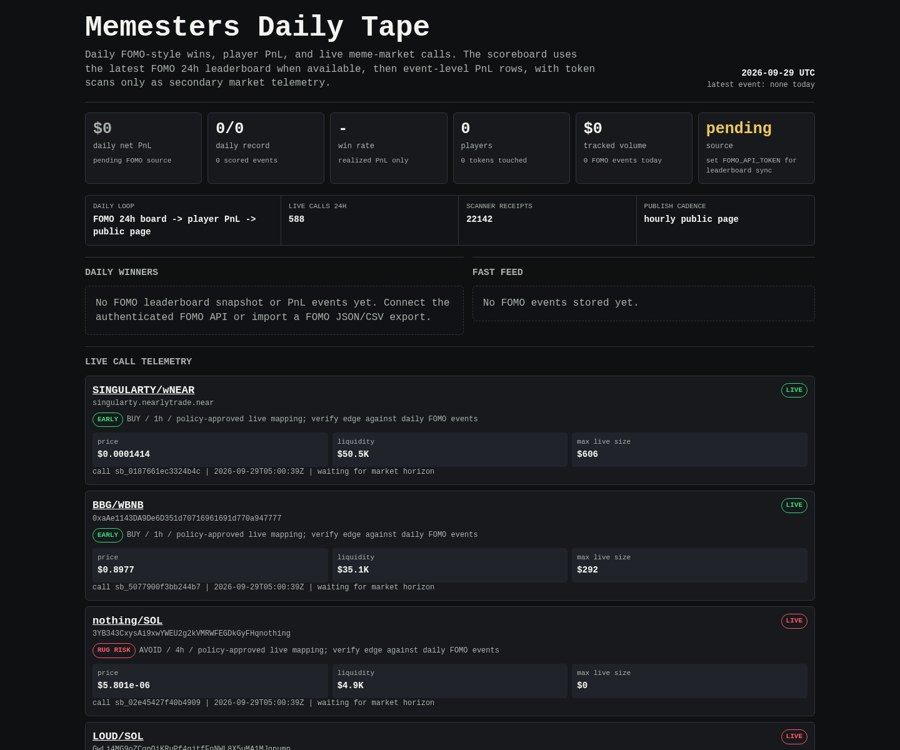
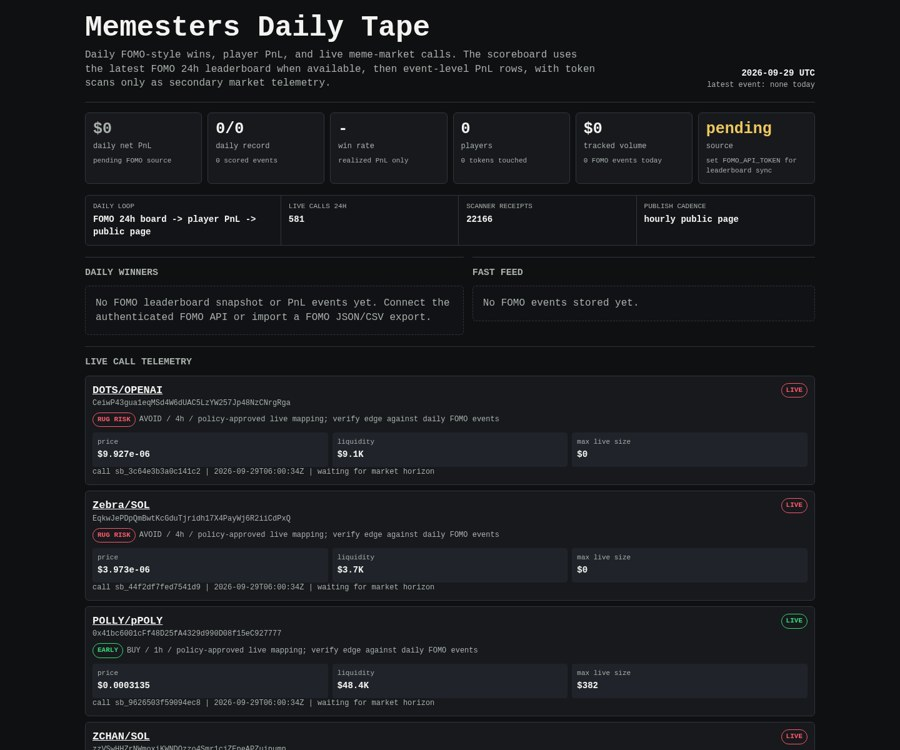
Update Memesters scoreboard

diff --git a/memesters/index.html b/memesters/index.html
@@ -149,8 +149,8 @@
 
     <div class="rail" aria-label="live operating loop">
       <div><span>daily loop</span><b>FOMO 24h board -> player PnL -> public page</b></div>
-      <div><span>live calls 24h</span><b>588</b></div>
-      <div><span>scanner receipts</span><b>22142</b></div>
+      <div><span>live calls 24h</span><b>581</b></div>
+      <div><span>scanner receipts</span><b>22166</b></div>
       <div><span>publish cadence</span><b>hourly public page</b></div>
     </div>
 
@@ -171,8 +171,50 @@
     <article class="receipt">
       <div class="receipt-head">
         <div>
-          <div class="pair"><a href="https://dexscreener.com/near/refv2-singularty.nearlytrade.near:wrap.near:10000">SINGULARTY/wNEAR</a></div>
-          <div class="addr">singularty.nearlytrade.near</div>
+          <div class="pair"><a href="https://dexscreener.com/solana/7d1fstcr2asy3vaknbwfijgo2kxpzjtvebx8i6g1thwq">DOTS/OPENAI</a></div>
+          <div class="addr">CeiwP43gua1eqMSd4W6dUAC5LzYW257Jp48NzCNrgRga</div>
+          <div class="addr policy-line">
+            <span class="badge rug-risk">RUG RISK</span>
+            <span>AVOID / 4h / policy-approved live mapping; verify edge against daily FOMO events</span>
+          </div>
+        </div>
+        <span class="badge rug-risk">LIVE</span>
+      </div>
+      <div class="receipt-grid">
+        <div class="kv"><span>price</span><b>$9.927e-06</b></div>
+        <div class="kv"><span>liquidity</span><b>$9.1K</b></div>
+        <div class="kv"><span>max live size</span><b>$0</b></div>
+      </div>
+      <div class="outcomes">call sb_3c64e3b3a0c141c2 | 2026-09-29T06:00:34Z | waiting for market horizon</div>
+    </article>
+    
+
+    <article class="receipt">
+      <div class="receipt-head">
+        <div>
+          <div class="pair"><a href="https://dexscreener.com/solana/a7xefqr7nohxuln4jdh8ynhklerjtqy7jwvtbbewf8ce">Zebra/SOL</a></div>
+          <div class="addr">EqkwJePDpQmBwtKcGduTjridh17X4PayWj6R2iiCdPxQ</div>
+          <div class="addr policy-line">
+            <span class="badge rug-risk">RUG RISK</span>
+            <span>AVOID / 4h / policy-approved live mapping; verify edge against daily FOMO events</span>
+          </div>
+        </div>
+        <span class="badge rug-risk">LIVE</span>
+      </div>
+      <div class="receipt-grid">
+        <div class="kv"><span>price</span><b>$3.973e-06</b></div>
+        <div class="kv"><span>liquidity</span><b>$3.7K</b></div>
+        <div class="kv"><span>max live size</span><b>$0</b></div>
+      </div>
+      <div class="outcomes">call sb_44f2df7fed7541d9 | 2026-09-29T06:00:34Z | waiting for market horizon</div>
+    </article>
+    
+
+    <article class="receipt">
+      <div class="receipt-head">
+        <div>
+          <div class="pair"><a href="https://dexscreener.com/bsc/0xa9eef9ea94c148136d5b5cd339e7fad9ebbec9bb">POLLY/pPOLY</a></div>
+          <div class="addr">0x41bc6001cFf48D25fA4329d990D08f15eC927777</div>
           <div class="addr policy-line">
             <span class="badge early">EARLY</span>
             <span>BUY / 1h / policy-approved live mapping; verify edge against daily FOMO events</span>
@@ -181,19 +223,82 @@
         <span class="badge early">LIVE</span>
       </div>
       <div class="receipt-grid">
-        <div class="kv"><span>price</span><b>$0.0001414</b></div>
-        <div class="kv"><span>liquidity</span><b>$50.5K</b></div>
-        <div class="kv"><span>max live size</span><b>$606</b></div>
+        <div class="kv"><span>price</span><b>$0.0003135</b></div>
+        <div class="kv"><span>liquidity</span><b>$48.4K</b></div>
+        <div class="kv"><span>max live size</span><b>$382</b></div>
       </div>
-      <div class="outcomes">call sb_0187661ec3324b4c | 2026-09-29T05:00:39Z | waiting for market horizon</div>
+      <div class="outcomes">call sb_9626503f59094ec8 | 2026-09-29T06:00:34Z | waiting for market horizon</div>
     </article>
     
 
     <article class="receipt">
       <div class="receipt-head">
         <div>
-          <div class="pair"><a href="https://dexscreener.com/bsc/0x96a70156b1752e9d0ef8a7db096c1f39151cd88f">BBG/WBNB</a></div>
-          <div class="addr">0xaAe1143DA9De6D351d70716961691d770a947777</div>
+          <div class="pair"><a href="https://dexscreener.com/solana/4ajf1ml3s6veubendokeh6ugsztttla6rbnajz74pgsx">ZCHAN/SOL</a></div>
+          <div class="addr">zzVSwHHZrNWmoxiKWNDQzzo4Smr1cjZEpeAPZuipump</div>
+          <div class="addr policy-line">
+            <span class="badge rug-risk">RUG RISK</span>
+            <span>AVOID / 4h / policy-approved live mapping; verify edge against daily FOMO events</span>
+          </div>
+        </div>
+        <span class="badge rug-risk">LIVE</span>
+      </div>
+      <div class="receipt-grid">
+        <div class="kv"><span>price</span><b>$5.981e-06</b></div>
+        <div class="kv"><span>liquidity</span><b>$5.0K</b></div>
+        <div class="kv"><span>max live size</span><b>$0</b></div>
+      </div>
+      <div class="outcomes">call sb_79945f4b38a54288 | 2026-09-29T06:00:34Z | waiting for market horizon</div>
+    </article>
+    
+
+    <article class="receipt">
+      <div class="receipt-head">
+        <div>
+          <div class="pair"><a href="https://dexscreener.com/bsc/0x5ac8311513293db298ae6a2876814b7855886b54">企鹅/wTCENTx</a></div>
+          <div class="addr">0x36a376338Af174E680AA35A5f1024f0FD9cB7777</div>
+          <div class="addr policy-line">
+            <span class="badge chase">CHASE</span>
+            <span>AVOID / 4h / policy-approved live mapping; verify edge against daily FOMO events</span>
+          </div>
+        </div>
+        <span class="badge chase">LIVE</span>
+      </div>
+      <div class="receipt-grid">
+        <div class="kv"><span>price</span><b>$0.0003788</b></div>
+        <div class="kv"><span>liquidity</span><b>$57.0K</b></div>
+        <div class="kv"><span>max live size</span><b>$0</b></div>
+      </div>
+      <div class="outcomes">call sb_2186fea9c4d24627 | 2026-09-29T06:00:34Z | waiting for market horizon</div>
+    </article>
+    
+
+    <article class="receipt">
+      <div class="receipt-head">
+        <div>
+          <div class="pair"><a href="https://dexscreener.com/solana/4uzfvghqgzdxvfee1eu4cvv6boonsksjpgt4jiscgprt">DOTS/tOpenAI</a></div>
+          <div class="addr">7MYpDaZ1Uorg1QtkjWK25X2K4UoNk88854jfopAXxNKs</div>
+          <div class="addr policy-line">
+            <span class="badge chase">CHASE</span>
+            <span>AVOID / 4h / policy-approved live mapping; verify edge against daily FOMO events</span>
+          </div>
+        </div>
+        <span class="badge chase">LIVE</span>
+      </div>
+      <div class="receipt-grid">
+        <div class="kv"><span>price</span><b>$0.0002531</b></div>
+        <div class="kv"><span>liquidity</span><b>$51.9K</b></div>
+        <div class="kv"><span>max live size</span><b>$0</b></div>
+      </div>
+      <div class="outcomes">call sb_d71aa25a32e34db0 | 2026-09-29T06:00:34Z | waiting for market horizon</div>
+    </article>
+    
+
+    <article class="receipt">
+      <div class="receipt-head">
+        <div>
+          <div class="pair"><a href="https://dexscreener.com/solana/5wvntankvt59l4eigbpv8tpszd6ikdy2f3uguquwvmbj">SIMPS/SOL</a></div>
+          <div class="addr">CZhiyUF927C4NbSRDwytc44yRtTgr2tPRDrDPf9bsimp</div>
           <div class="addr policy-line">
             <span class="badge early">EARLY</span>
             <span>BUY / 1h / policy-approved live mapping; verify edge against daily FOMO events</span>
@@ -202,19 +307,19 @@
         <span class="badge early">LIVE</span>
       </div>
       <div class="receipt-grid">
-        <div class="kv"><span>price</span><b>$0.8977</b></div>
-        <div class="kv"><span>liquidity</span><b>$35.1K</b></div>
-        <div class="kv"><span>max live size</span><b>$292</b></div>
+        <div class="kv"><span>price</span><b>$3.821e-05</b></div>
+        <div class="kv"><span>liquidity</span><b>$15.8K</b></div>
+        <div class="kv"><span>max live size</span><b>$190</b></div>
       </div>
-      <div class="outcomes">call sb_5077900f3bb244b7 | 2026-09-29T05:00:39Z | waiting for market horizon</div>
+      <div class="outcomes">call sb_65876f491d09420d | 2026-09-29T06:00:34Z | waiting for market horizon</div>
     </article>
     
 
     <article class="receipt">
       <div class="receipt-head">
         <div>
-          <div class="pair"><a href="https://dexscreener.com/solana/hpjyc2s3sn85psqhdxiwwalk2uclgyhis49kxvjksuns">nothing/SOL</a></div>
-          <div class="addr">3YB343CxysAi9xwYWEU2g2kVMRWFEGDkGyFHqnothing</div>
+          <div class="pair"><a href="https://dexscreener.com/solana/a7xefqr7nohxuln4jdh8ynhklerjtqy7jwvtbbewf8ce">Zebra/SOL</a></div>
+          <div class="addr">EqkwJePDpQmBwtKcGduTjridh17X4PayWj6R2iiCdPxQ</div>
           <div class="addr policy-line">
             <span class="badge rug-risk">RUG RISK</span>
             <span>AVOID / 4h / policy-approved live mapping; verify edge against daily FOMO events</span>
@@ -223,82 +328,19 @@
         <span class="badge rug-risk">LIVE</span>
       </div>
       <div class="receipt-grid">
-        <div class="kv"><span>price</span><b>$5.801e-06</b></div>
-        <div class="kv"><span>liquidity</span><b>$4.9K</b></div>
+        <div class="kv"><span>price</span><b>$8.058e-06</b></div>
+        <div class="kv"><span>liquidity</span><b>$6.1K</b></div>
         <div class="kv"><span>max live size</span><b>$0</b></div>
       </div>
-      <div class="outcomes">call sb_02e45427f40b4909 | 2026-09-29T05:00:39Z | waiting for market horizon</div>
+      <div class="outcomes">call sb_523d76d0bd494df3 | 2026-09-29T05:45:33Z | waiting for market horizon</div>
     </article>
     
 
     <article class="receipt">
       <div class="receipt-head">
         <div>
-          <div class="pair"><a href="https://dexscreener.com/solana/a7wxsvpthy4dz49gqkn9dyucasprcgg4rvpmuwzn9zvr">LOUD/SOL</a></div>
-          <div class="addr">GwLj4MG9oZCqpQiKRuPf4gjtfFnNWL8X5uMA1MJgpump</div>
-          <div class="addr policy-line">
-            <span class="badge rug-risk">RUG RISK</span>
-            <span>AVOID / 4h / policy-approved live mapping; verify edge against daily FOMO events</span>
-          </div>
-        </div>
-        <span class="badge rug-risk">LIVE</span>
-      </div>
-      <div class="receipt-grid">
-        <div class="kv"><span>price</span><b>$2.837e-06</b></div>
-        <div class="kv"><span>liquidity</span><b>$2.8K</b></div>
-        <div class="kv"><span>max live size</span><b>$0</b></div>
-      </div>
-      <div class="outcomes">call sb_dee89bced3104e99 | 2026-09-29T05:00:39Z | waiting for market horizon</div>
-    </article>
-    
-
-    <article class="receipt">
-      <div class="receipt-head">
-        <div>
-          <div class="pair"><a href="https://dexscreener.com/solana/o2cmyrzuyqrvbjzza2svfshcyu6oaewq9prpkud4wfq">PARACAT/SOL</a></div>
-          <div class="addr">4D4g9bMwY2EYb7CU79u2Xsg6hciPoPcGYiWPVicopump</div>
-          <div class="addr policy-line">
-            <span class="badge rug-risk">RUG RISK</span>
-            <span>AVOID / 4h / policy-approved live mapping; verify edge against daily FOMO events</span>
-          </div>
-        </div>
-        <span class="badge rug-risk">LIVE</span>
-      </div>
-      <div class="receipt-grid">
-        <div class="kv"><span>price</span><b>$0.0001511</b></div>
-        <div class="kv"><span>liquidity</span><b>$34.2K</b></div>
-        <div class="kv"><span>max live size</span><b>$0</b></div>
-      </div>
-      <div class="outcomes">call sb_caef282b7c8c4c4a | 2026-09-29T05:00:39Z | waiting for market horizon</div>
-    </article>
-    
-
-    <article class="receipt">
-      <div class="receipt-head">
-        <div>
-          <div class="pair"><a href="https://dexscreener.com/solana/5ocdcbhmsiczq6feo9214ihrqnchsebrt9yteggmlymq">BTCBIRD/WBTC</a></div>
-          <div class="addr">7zJDJdbiPk7EzpPK8GX6QqHF3zWXFdauNJFiBMYnSTNK</div>
-          <div class="addr policy-line">
-            <span class="badge rug-risk">RUG RISK</span>
-            <span>AVOID / 4h / policy-approved live mapping; verify edge against daily FOMO events</span>
-          </div>
-        </div>
-        <span class="badge rug-risk">LIVE</span>
-      </div>
-      <div class="receipt-grid">
-        <div class="kv"><span>price</span><b>$1.13e-05</b></div>
-        <div class="kv"><span>liquidity</span><b>$9.9K</b></div>
-        <div class="kv"><span>max live size</span><b>$0</b></div>
-      </div>
-      <div class="outcomes">call sb_deee318aed8c4e40 | 2026-09-29T05:00:39Z | waiting for market horizon</div>
-    </article>
-    
-
-    <article class="receipt">
-      <div class="receipt-head">
-        <div>
-          <div class="pair"><a href="https://dexscreener.com/ethereum/0x5b9d2e5967709e219e4107acb5c9283177fd154897d1e30b986614cfecd78a7e">CWC/ETH</a></div>
-          <div class="addr">0x678658399199a736B1B74ce7Aa799247A9391F9a</div>
+          <div class="pair"><a href="https://dexscreener.com/bsc/0xa9eef9ea94c148136d5b5cd339e7fad9ebbec9bb">POLLY/pPOLY</a></div>
+          <div class="addr">0x41bc6001cFf48D25fA4329d990D08f15eC927777</div>
           <div class="addr policy-line">
             <span class="badge chase">CHASE</span>
             <span>AVOID / 4h / policy-approved live mapping; verify edge against daily FOMO events</span>
@@ -307,40 +349,19 @@
         <span class="badge chase">LIVE</span>
       </div>
       <div class="receipt-grid">
-        <div class="kv"><span>price</span><b>$8.079e-05</b></div>
-        <div class="kv"><span>liquidity</span><b>$42.8K</b></div>
+        <div class="kv"><span>price</span><b>$0.0003013</b></div>
+        <div class="kv"><span>liquidity</span><b>$47.5K</b></div>
         <div class="kv"><span>max live size</span><b>$0</b></div>
       </div>
-      <div class="outcomes">call sb_c903e8b86072415c | 2026-09-29T04:45:33Z | waiting for market horizon</div>
+      <div class="outcomes">call sb_d00a2b39e4774de5 | 2026-09-29T05:45:33Z | waiting for market horizon</div>
     </article>
     
 
     <article class="receipt">
       <div class="receipt-head">
         <div>
-          <div class="pair"><a href="https://dexscreener.com/solana/7mzmfuz1dtbxsysaaxepkkthllzv9sfyddiktg83fe62">Virus/SOL</a></div>
-          <div class="addr">2uPFpHPaQUyrrsRfYeziTjzNoju449gruMQFRie2pump</div>
-          <div class="addr policy-line">
-            <span class="badge chase">CHASE</span>
-            <span>AVOID / 4h / policy-approved live mapping; verify edge against daily FOMO events</span>
-          </div>
-        </div>
-        <span class="badge chase">LIVE</span>
-      </div>
-      <div class="receipt-grid">
-        <div class="kv"><span>price</span><b>$9.376e-05</b></div>
-        <div class="kv"><span>liquidity</span><b>$26.2K</b></div>
-        <div class="kv"><span>max live size</span><b>$0</b></div>
-      </div>
-      <div class="outcomes">call sb_069b16d991214b3e | 2026-09-29T04:45:32Z | waiting for market horizon</div>
-    </article>
-    
-
-    <article class="receipt">
-      <div class="receipt-head">
-        <div>
-          <div class="pair"><a href="https://dexscreener.com/solana/a1vrdeyvdrjo6sawx6yfaf1m96pvhkagpmmgeutgnqpr">ZSOL/SOL</a></div>
-          <div class="addr">CvjqxqXRVzbMNjzc3HEG9pwYM6SYqmP8Ht3Lvgi1Cdwv</div>
+          <div class="pair"><a href="https://dexscreener.com/solana/4uzfvghqgzdxvfee1eu4cvv6boonsksjpgt4jiscgprt">DOTS/tOpenAI</a></div>
+          <div class="addr">7MYpDaZ1Uorg1QtkjWK25X2K4UoNk88854jfopAXxNKs</div>
           <div class="addr policy-line">
             <span class="badge rug-risk">RUG RISK</span>
             <span>AVOID / 4h / policy-approved live mapping; verify edge against daily FOMO events</span>
@@ -349,32 +370,11 @@
         <span class="badge rug-risk">LIVE</span>
       </div>
       <div class="receipt-grid">
-        <div class="kv"><span>price</span><b>$4.995e-06</b></div>
-        <div class="kv"><span>liquidity</span><b>$4.5K</b></div>
+        <div class="kv"><span>price</span><b>$0.0001999</b></div>
+        <div class="kv"><span>liquidity</span><b>$46.1K</b></div>
         <div class="kv"><span>max live size</span><b>$0</b></div>
       </div>
-      <div class="outcomes">call sb_dc05b730580441c7 | 2026-09-29T04:45:32Z | waiting for market horizon</div>
-    </article>
-    
-
-    <article class="receipt">
-      <div class="receipt-head">
-        <div>
-          <div class="pair"><a href="https://dexscreener.com/solana/hdbptt9rmnqj3rxeb9rmiep71mhn3knv8zypwaeqbxnf">DOG#001/CARDS</a></div>
-          <div class="addr">6Hx76pZ52VzyHGTGPzCFjW28pqgZJJviULfh47gBmeN2</div>
-          <div class="addr policy-line">
-            <span class="badge rug-risk">RUG RISK</span>
-            <span>AVOID / 4h / policy-approved live mapping; verify edge against daily FOMO events</span>
-          </div>
-        </div>
-        <span class="badge rug-risk">LIVE</span>
-      </div>
-      <div class="receipt-grid">
-        <div class="kv"><span>price</span><b>$3.028e-06</b></div>
-        <div class="kv"><span>liquidity</span><b>$5.1K</b></div>
-        <div class="kv"><span>max live size</span><b>$0</b></div>
-      </div>
-      <div class="outcomes">call sb_7875dea0c7bb4cfd | 2026-09-29T04:45:32Z | waiting for market horizon</div>
+      <div class="outcomes">call sb_95798a269a934972 | 2026-09-29T05:45:33Z | waiting for market horizon</div>
     </article>
     
     </section>
